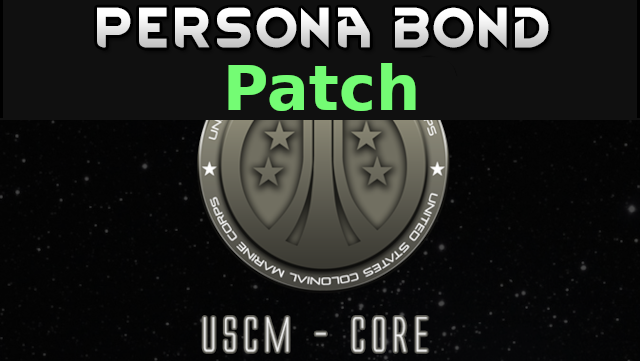
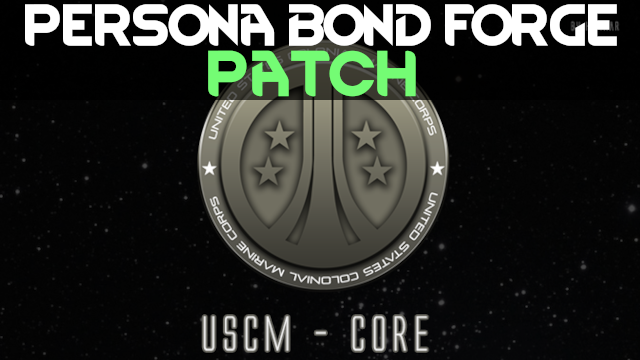
Update Preview.png and README.md

Changed region(s): [[0.0312, 0.0, 0.9688, 0.3361]]

diff --git a/README.md b/README.md
@@ -2,6 +2,14 @@
 
 ![](https://github.com/Daria40K/Persona-Bond-Patch-for-USCM-Core/blob/main/About/Preview.png)
 
+## Required Mods
+- [Persona Bond Forge](https://steamcommunity.com/workshop/filedetails/?id=2178003816) (Steam)
+- [USCM - Core](https://steamcommunity.com/sharedfiles/filedetails/?id=726855894) (Steam)
+
+## Download
+- [Steam](https://steamcommunity.com/sharedfiles/filedetails/?id=2757692501)
+- [GitHub](https://github.com/Daria40K/Persona-Bond-Patch-for-USCM-Core/releases)
+
 ## Weapons Patch
 - M4A3 Service Pistol
 - M4A4 Pistol
